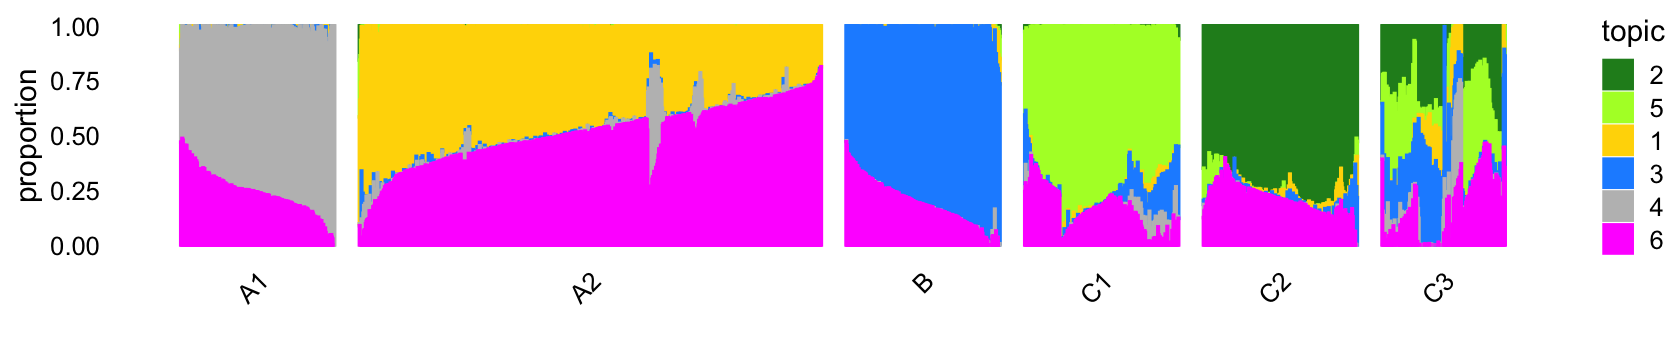
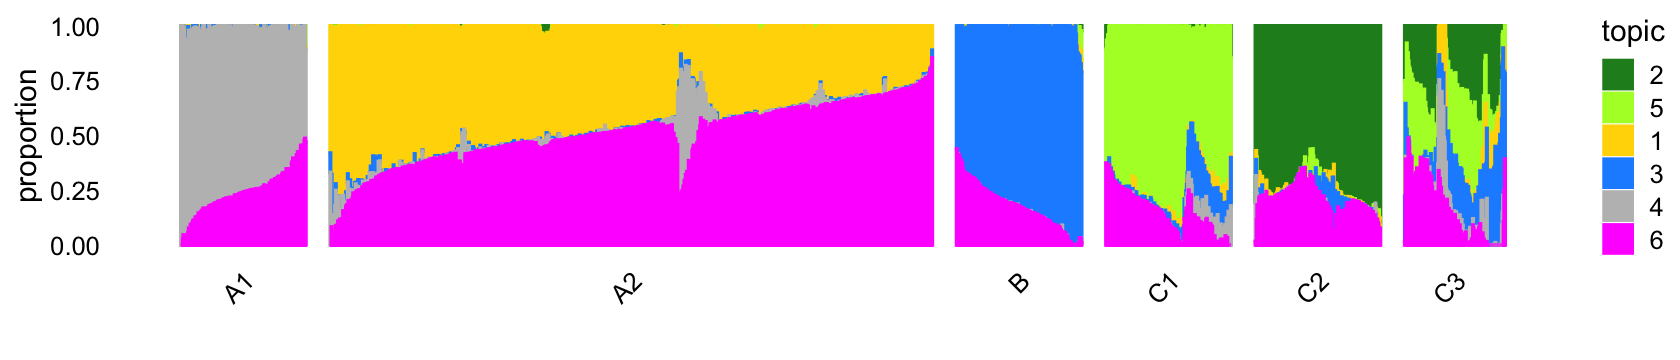
Revised notes in plots_pbmc.Rmd.

diff --git a/docs/plots_pbmc.html b/docs/plots_pbmc.html
@@ -412,16 +412,16 @@ This reproducible <a href="http://rmarkdown.rstudio.com">R Markdown</a> analysis
 <div class="panel panel-default">
 <div class="panel-heading">
 <p class="panel-title">
-<a data-toggle="collapse" data-parent="#workflowr-checks" href="#strongRepositoryversionstrongahrefhttpsgithubcomstephenslabsinglecelltopicstree005b217f97b1e5cf606c5e2fbb1275ba9753116etargetblank005b217a"> <span class="glyphicon glyphicon-ok text-success" aria-hidden="true"></span> <strong>Repository version:</strong> <a href="https://github.com/stephenslab/single-cell-topics/tree/005b217f97b1e5cf606c5e2fbb1275ba9753116e" target="_blank">005b217</a> </a>
+<a data-toggle="collapse" data-parent="#workflowr-checks" href="#strongRepositoryversionstrongahrefhttpsgithubcomstephenslabsinglecelltopicstreee766da56adffe7e2e06cdcd795bb7fb7a36b0d7dtargetblanke766da5a"> <span class="glyphicon glyphicon-ok text-success" aria-hidden="true"></span> <strong>Repository version:</strong> <a href="https://github.com/stephenslab/single-cell-topics/tree/e766da56adffe7e2e06cdcd795bb7fb7a36b0d7d" target="_blank">e766da5</a> </a>
 </p>
 </div>
[2 lines of base64/hex data omitted]
 <div class="panel-body">
 <p>
 Great! You are using Git for version control. Tracking code development and connecting the code version to the results is critical for reproducibility.
 </p>
 <p>
-The results in this page were generated with repository version <a href="https://github.com/stephenslab/single-cell-topics/tree/005b217f97b1e5cf606c5e2fbb1275ba9753116e" target="_blank">005b217</a>. See the <em>Past versions</em> tab to see a history of the changes made to the R Markdown and HTML files.
+The results in this page were generated with repository version <a href="https://github.com/stephenslab/single-cell-topics/tree/e766da56adffe7e2e06cdcd795bb7fb7a36b0d7d" target="_blank">e766da5</a>. See the <em>Past versions</em> tab to see a history of the changes made to the R Markdown and HTML files.
 </p>
 <p>
 Note that you need to be careful to ensure that all relevant files for the analysis have been committed to Git prior to generating the results (you can use <code>wflow_publish</code> or <code>wflow_git_commit</code>). workflowr only checks the R Markdown file, but you know if there are other scripts or data files that it depends on. Below is the status of the Git repository when the results were generated:
@@ -478,6 +478,57 @@ Message
 </tr>
 </thead>
 <tbody>
+<tr>
+<td>
+Rmd
+</td>
+<td>
+<a href="https://github.com/stephenslab/single-cell-topics/blob/e766da56adffe7e2e06cdcd795bb7fb7a36b0d7d/analysis/plots_pbmc.Rmd" target="_blank">e766da5</a>
+</td>
+<td>
+Peter Carbonetto
+</td>
+<td>
+2020-08-23
+</td>
+<td>
+workflowr::wflow_publish(“plots_pbmc.Rmd”)
+</td>
+</tr>
+<tr>
+<td>
+Rmd
+</td>
+<td>
+<a href="https://github.com/stephenslab/single-cell-topics/blob/dbd5882a4e6b5a20c0d1a04e9a3c899f4baff6b8/analysis/plots_pbmc.Rmd" target="_blank">dbd5882</a>
+</td>
+<td>
+Peter Carbonetto
+</td>
+<td>
+2020-08-23
+</td>
+<td>
+Added some explanatory text to plots_pbmc.Rmd.
+</td>
+</tr>
+<tr>
+<td>
+html
+</td>
+<td>
+<a href="https://rawcdn.githack.com/stephenslab/single-cell-topics/97d7e8692b0a40a53f6afc1ed5ee5067b1665d33/docs/plots_pbmc.html" target="_blank">97d7e86</a>
+</td>
+<td>
+Peter Carbonetto
+</td>
+<td>
+2020-08-23
+</td>
+<td>
+Fixed subclustering of cluster A in purified PBMC data.
+</td>
+</tr>
 <tr>
 <td>
 Rmd
@@ -1053,11 +1104,11 @@ fit_68k$F &lt;- fit_68k$F[,cols]
 fit_68k$L &lt;- fit_68k$L[,cols]
 colnames(fit_68k$F) &lt;- paste0(&quot;k&quot;,1:6)
 colnames(fit_68k$L) &lt;- paste0(&quot;k&quot;,1:6)</code></pre>
-<p>We begin by exploring structure in the data as inferred by the topic model. We will visualize this structure by plotting principal components (PCs) of the topic proportions. Although PCA is simple, we will see that it quite effective, and avoids the complications of nonlinear dimensionality reduction techniques such as t-SNE and UMAP.</p>
+<p>We begin by exploring structure in the data as inferred by the topic model. We will visualize this structure by plotting principal components (PCs) of the topic proportions. Although PCA is simple, we will see that it quite effective, and avoids the complications of the popular t-SNE and UMAP nonlinear dimensionality reduction methods.</p>
 <p>We begin with the mixture of FACS-purified PBMC data.</p>
 <pre class="r"><code>fit &lt;- poisson2multinom(fit_purified)
 pca &lt;- prcomp(fit$L)$x</code></pre>
-<p>Three large clusters are clearly evident from first two PCs (there is also finer-scale structure which we will examine shortly). We label these clusters as “A”, “B” and “C”.</p>
+<p>Three large clusters are clearly evident from first two PCs (there is also finer-scale structure which we will examine below). We label these clusters simply as “A”, “B” and “C”.</p>
 <pre class="r"><code>n   &lt;- nrow(pca)
 x   &lt;- rep(&quot;C&quot;,n)
 pc1 &lt;- pca[,&quot;PC1&quot;]
@@ -1124,7 +1175,7 @@ Peter Carbonetto
 # x
 #     A     B     C 
 # 72614 10439 11602</code></pre>
-<p>In cluster C, there are two well-defined subclusters, labeled “C1” and “C2”. There are other possible subclusters that are less defined, but here we focus on the most obvious clustering:</p>
+<p>In cluster C, there are two well-defined subclusters, which we label “C1” and “C2”. There are perhaps other subclusters that are less defined, but we here we ignore this more subtle structure, and focus on the most obvious clusters:</p>
 <pre class="r"><code>rows &lt;- which(samples_purified$cluster == &quot;C&quot;)
 fit  &lt;- select(poisson2multinom(fit_purified),loadings = rows)
 pca  &lt;- prcomp(fit$L)$x
@@ -1176,12 +1227,12 @@ Peter Carbonetto
 </table>
 </div>
 </div>
-<p>The two subclusters C1 and C2 account for most of the samples:</p>
+<p>The two subclusters, C1 and C2, account for most of the samples in cluster C:</p>
 <pre class="r"><code>table(x)
 # x
 #   C1   C2   C3 
 # 7822 2990  790</code></pre>
-<p>Let’s now look more closely at cluster A. There is a large, much less distinct subcluster, which we label as “A1”. Otherwise, there are no other clearly well-defined clusters.</p>
+<p>Let’s now look more closely at cluster A. There is a large, much less distinct subcluster, which we label as “A1”. Otherwise, there are no other clearly distinct clusters.</p>
 <pre class="r"><code>rows &lt;- which(samples_purified$cluster == &quot;A&quot;)
 fit  &lt;- select(poisson2multinom(fit_purified),loadings = rows)
 pca  &lt;- prcomp(fit$L)$x
@@ -1219,6 +1270,17 @@ Date
 <tbody>
 <tr>
 <td>
+<a href="https://github.com/stephenslab/single-cell-topics/blob/97d7e8692b0a40a53f6afc1ed5ee5067b1665d33/docs/figure/plots_pbmc.Rmd/pbmc-purified-clustering-6-1.png" target="_blank">97d7e86</a>
+</td>
+<td>
+Peter Carbonetto
+</td>
+<td>
+2020-08-23
+</td>
+</tr>
+<tr>
+<td>
 <a href="https://github.com/stephenslab/single-cell-topics/blob/7900d171e513796cb2e56f95abf713355845a5ae/docs/figure/plots_pbmc.Rmd/pbmc-purified-clustering-6-1.png" target="_blank">7900d17</a>
 </td>
 <td>
@@ -1238,23 +1300,23 @@ table(samples_purified$cluster)
 # 
 #    A1    A2     B    C1    C2    C3 
 #  8271 64343 10439  7822  2990   790</code></pre>
-<p>The Structure plot gives a compact visual summary of topic proportions in each of these six clusters:</p>
+<p>The Structure plot provides a visual summary of topic proportions in each of these six clusters:</p>
 <pre class="r"><code>set.seed(1)
 pbmc_purified_topics       &lt;- c(2,5,1,3,4,6)
 pbmc_purified_topic_colors &lt;- c(&quot;gold&quot;,&quot;forestgreen&quot;,&quot;dodgerblue&quot;,
                                 &quot;gray&quot;,&quot;greenyellow&quot;,&quot;magenta&quot;)
 rows &lt;- sort(c(sample(which(samples_purified$cluster == &quot;A1&quot;),250),
-               sample(which(samples_purified$cluster == &quot;A2&quot;),750),
+               sample(which(samples_purified$cluster == &quot;A2&quot;),1200),
                sample(which(samples_purified$cluster == &quot;B&quot;),250),
                sample(which(samples_purified$cluster == &quot;C1&quot;),250),
                sample(which(samples_purified$cluster == &quot;C2&quot;),250),
                sample(which(samples_purified$cluster == &quot;C3&quot;),200)))
-p3 &lt;- structure_plot(select(poisson2multinom(fit_purified),loadings = rows),
+p7 &lt;- structure_plot(select(poisson2multinom(fit_purified),loadings = rows),
                      grouping = samples_purified[rows,&quot;cluster&quot;],
                      topics = pbmc_purified_topics,
                      colors = pbmc_purified_topic_colors[pbmc_purified_topics],
                      gap = 40,num_threads = 4,verbose = FALSE)
-print(p3)</code></pre>
+print(p7)</code></pre>
 <p><img src="figure/plots_pbmc.Rmd/pbmc-purified-structure-plot-1.png" width="840" style="display: block; margin: auto;" /></p>
 <p>
 <button type="button" class="btn btn-default btn-xs btn-workflowr btn-workflowr-fig" data-toggle="collapse" data-target="#fig-pbmc-purified-structure-plot-1">
@@ -1278,6 +1340,17 @@ Date
 </tr>
 </thead>
 <tbody>
+<tr>
+<td>
+<a href="https://github.com/stephenslab/single-cell-topics/blob/97d7e8692b0a40a53f6afc1ed5ee5067b1665d33/docs/figure/plots_pbmc.Rmd/pbmc-purified-structure-plot-1.png" target="_blank">97d7e86</a>
+</td>
+<td>
+Peter Carbonetto
+</td>
+<td>
+2020-08-23
+</td>
+</tr>
 <tr>
 <td>
 <a href="https://github.com/stephenslab/single-cell-topics/blob/59777e743c15ee5a5576d476bf68227bfb2c5bf8/docs/figure/plots_pbmc.Rmd/pbmc-purified-structure-plot-1.png" target="_blank">59777e7</a>
@@ -1337,7 +1410,7 @@ Peter Carbonetto
 </table>
 </div>
 </div>
-<p>Compare these clusters with the Zheng <em>et al</em> (2017) cell-type labeling:</p>
+<p>Out of the 6 topics, 4 of them (<span class="math inline">\(k = 2, 3, 4, 5\)</span>) align closely with the clusters (labeled A1, B, C1, C2). Indeed, they also align closely with the FACS-purified data sets:</p>
 <pre class="r"><code>with(samples_purified,table(celltype,cluster))
 #                               cluster
 # celltype                          A1    A2     B    C1    C2    C3
@@ -1351,6 +1424,8 @@ Peter Carbonetto
 #   CD8+/CD45RA+ Naive Cytotoxic     1 11945     3     0     0     4
 #   CD4+/CD45RA+/CD25- Naive T       1 10440     1    25     0    12
 #   CD4+/CD25 T Reg                  0 10243     2     4     0    14</code></pre>
+<p>For example, cluster B corresponds almost perfectly to the B-cell data set, and the largest cluster—cluster A2—is comprised of the T-cell data sets. It is also interesting that many of the samples labeled as “CD34+” are not assigned to the CD34+ cluster (C1), which probably reflects the fact that the this population was much less pure (45%) than the others, and so probably contained other cell types.</p>
+<p>Cluster C3 is a heterogeneous cluster that we do not investigate further. Cluster A2—see also the PCA plot above—is a clear example where topic modeling is more appropriate than clustering because any additional clustering of the data will be arbitrary.</p>
 <p>Next, we turn to the 68k fit.</p>
 <pre class="r"><code>fit &lt;- poisson2multinom(fit_68k)
 pca &lt;- prcomp(fit$L)$x</code></pre>
